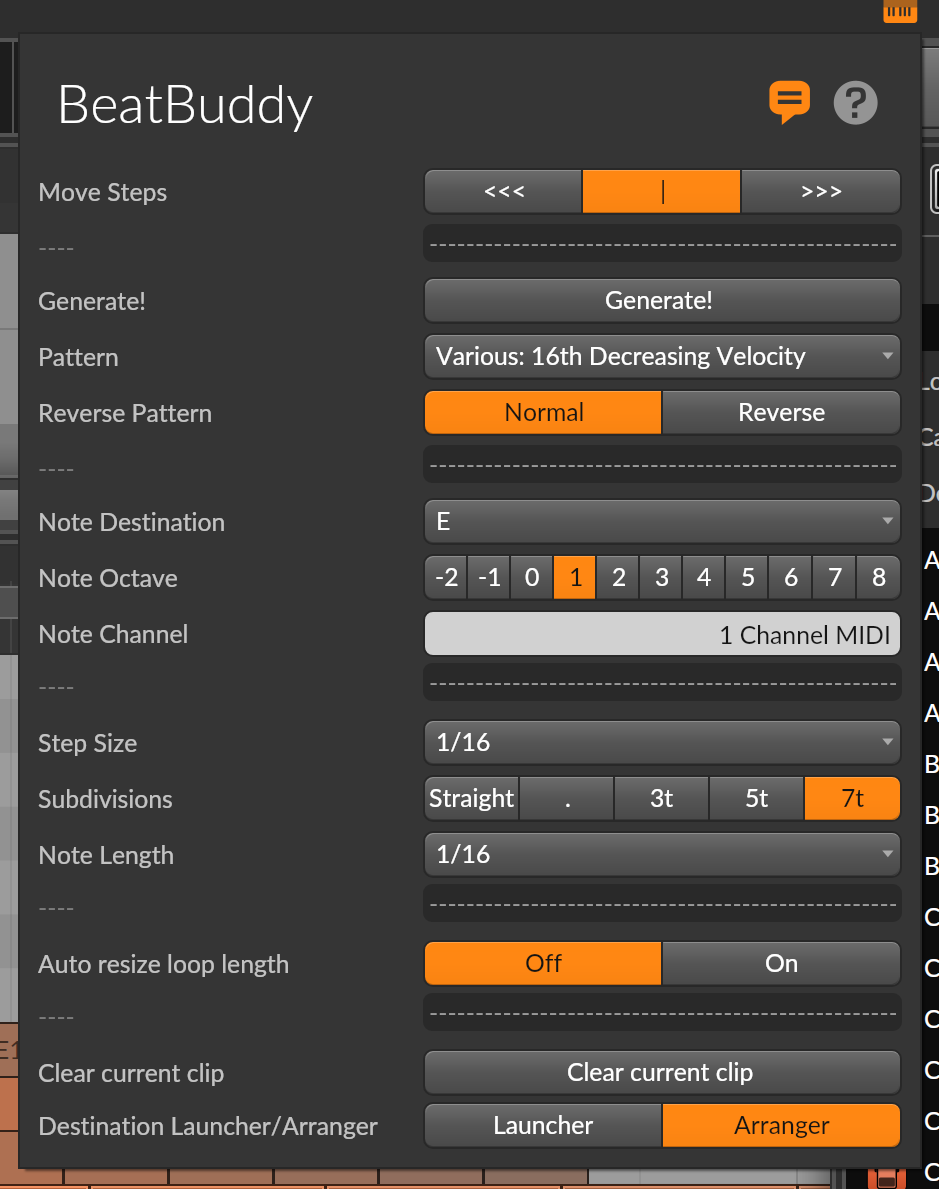
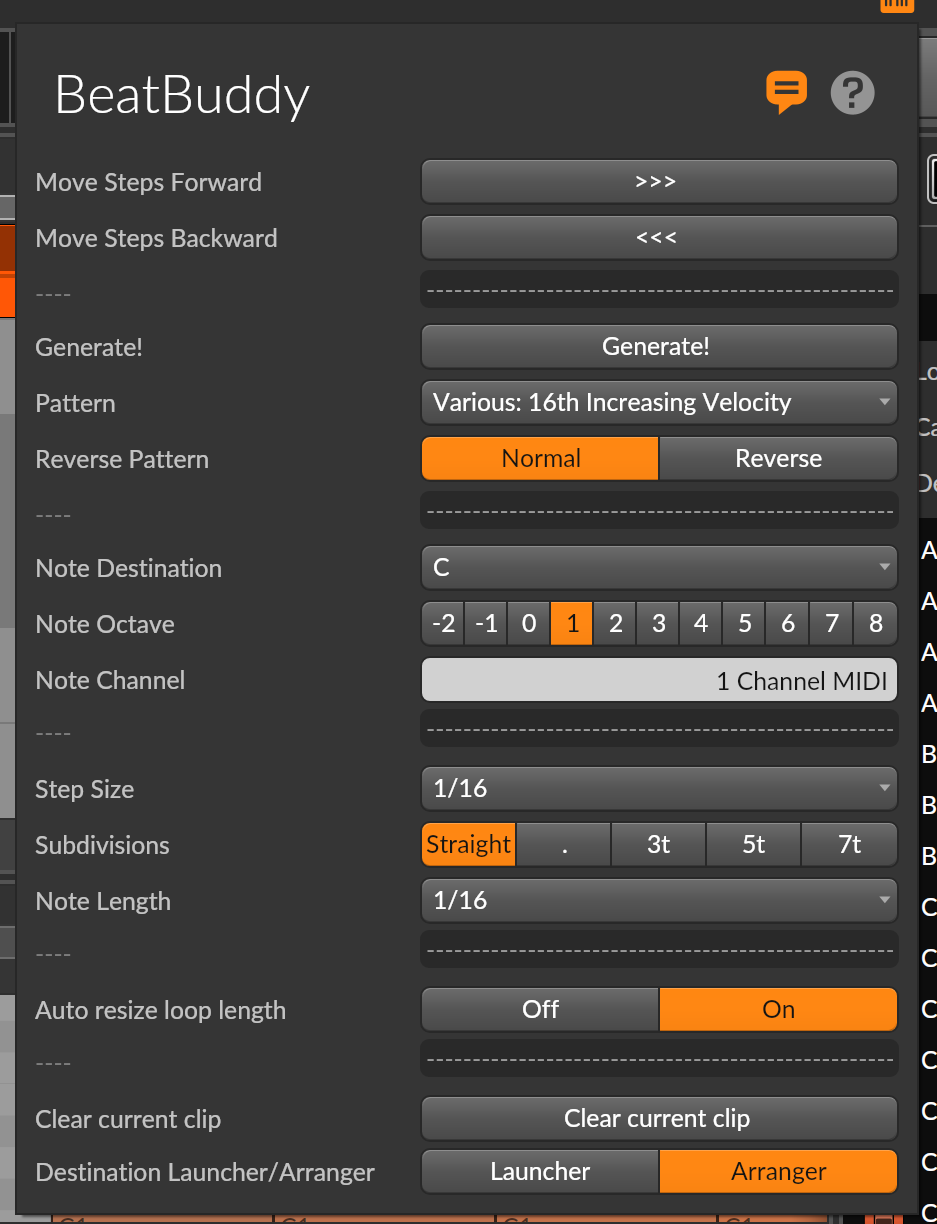
0.7.1

diff --git a/src/main/java/com/centomila/BeatBuddyExtension.java b/src/main/java/com/centomila/BeatBuddyExtension.java
@@ -1,6 +1,9 @@
 package com.centomila;
 
+import java.util.ArrayList;
 import java.util.Arrays;
+import java.util.Comparator;
+import java.util.List;
 import java.util.Random;
 
 // import com.bitwig.extension.controller.api.Action;
@@ -75,7 +78,7 @@ public class BeatBuddyExtension extends ControllerExtension {
 
       initNoteDestinationSetting();
 
-      initStepSizeSetting(); 
+      initStepSizeSetting();
 
       initPostActionSetting();
 
@@ -90,8 +93,9 @@ public class BeatBuddyExtension extends ControllerExtension {
    }
 
    /**
-    * Sets up the Step Size setting and the Note Length setting. 
-    * When the user changes the Step Size, the Note Length is automatically updated to match the selected step size.
+    * Sets up the Step Size setting and the Note Length setting.
+    * When the user changes the Step Size, the Note Length is automatically updated
+    * to match the selected step size.
     * The user can also change the Note Length independently of the Step Size.
     */
    private void initStepSizeSetting() {
@@ -117,13 +121,17 @@ public class BeatBuddyExtension extends ControllerExtension {
    }
 
    /**
-    * Initializes the note destination setting, which includes the note destination dropdown, note octave dropdown, and note channel number setting.
+    * Initializes the note destination setting, which includes the note destination
+    * dropdown, note octave dropdown, and note channel number setting.
     * 
-    * The note destination dropdown has options for all 12 notes, and the value of the dropdown is stored in the currentNoteAsString variable.
+    * The note destination dropdown has options for all 12 notes, and the value of
+    * the dropdown is stored in the currentNoteAsString variable.
     * 
-    * The note octave dropdown has options for all octaves from -2 to 8, and the value of the dropdown is stored in the currentOctaveAsInt variable.
+    * The note octave dropdown has options for all octaves from -2 to 8, and the
+    * value of the dropdown is stored in the currentOctaveAsInt variable.
     * 
-    * The note channel setting is a number setting that allows the user to select a channel from 1 to 16.
+    * The note channel setting is a number setting that allows the user to select a
+    * channel from 1 to 16.
     */
    private void initNoteDestinationSetting() {
       // Note destination dropdown
@@ -163,13 +171,17 @@ public class BeatBuddyExtension extends ControllerExtension {
    }
 
    /**
-    * Initializes the pattern setting, which includes the generate button, pattern dropdown, and reverse pattern checkbox.
+    * Initializes the pattern setting, which includes the generate button, pattern
+    * dropdown, and reverse pattern checkbox.
     * 
-    * The generate button is a signal that triggers the generateDrumPattern method when clicked.
+    * The generate button is a signal that triggers the generateDrumPattern method
+    * when clicked.
     * 
-    * The pattern dropdown has options for all patterns that are defined in the DrumPatterns class.
+    * The pattern dropdown has options for all patterns that are defined in the
+    * DrumPatterns class.
     * 
-    * The reverse pattern checkbox is a pseudo-boolean setting that is used to reverse the pattern before applying it to the clip.
+    * The reverse pattern checkbox is a pseudo-boolean setting that is used to
+    * reverse the pattern before applying it to the clip.
     * 
     * The spacer1 setting is an empty string used for spacing.
     */
@@ -212,24 +224,19 @@ public class BeatBuddyExtension extends ControllerExtension {
     * corresponding argument, and the button is reset to the "|" state.
     */
    private void initMoveStepsSetting() {
-      moveStepsSetting = (Setting) documentState.getEnumSetting("Move Steps", "Move Steps",
-            new String[] { "<<<", "|", ">>>" }, "|");
 
-      ((EnumValue) moveStepsSetting).addValueObserver(newValue -> {
-         switch (newValue) {
-            case ">>>":
-               moveSteps(1);
-               break;
+      Signal moveFwd = documentState.getSignalSetting("Move Steps Forward", "Move Steps",
+            ">>>");
+      moveFwd.addSignalObserver(() -> {
+         moveSteps(1);
 
-            case "<<<":
-               moveSteps(-1);
-               break;
+      });
 
-            default:
-               break;
-         }
-         // Reset the button position
-         ((SettableEnumValue) moveStepsSetting).set("|");
+      Signal moveBwd = documentState.getSignalSetting("Move Steps Backward", "Move Steps",
+            "<<<");
+      moveBwd.addSignalObserver(() -> {
+         moveSteps(-1);
+
       });
 
       // Empty string for spacing
@@ -258,10 +265,12 @@ public class BeatBuddyExtension extends ControllerExtension {
    }
 
    /**
-    * Initializes the clear clip setting, which includes an empty string spacer and the clear
+    * Initializes the clear clip setting, which includes an empty string spacer and
+    * the clear
     * current clip setting.
     * 
-    * The clear current clip setting is a button that, when clicked, will clear the current
+    * The clear current clip setting is a button that, when clicked, will clear the
+    * current
     * clip of all notes.
     * 
     * The spacer is an empty string setting that is used for spacing.
@@ -279,7 +288,8 @@ public class BeatBuddyExtension extends ControllerExtension {
    }
 
    /**
-    * Initializes the Launcher/Arranger toggle setting, which determines whether the
+    * Initializes the Launcher/Arranger toggle setting, which determines whether
+    * the
     * drum pattern is generated in the Launcher or Arranger clip.
     * 
     * The setting is an EnumValue that can be set to either "Launcher" or
@@ -314,7 +324,8 @@ public class BeatBuddyExtension extends ControllerExtension {
 
    /**
     * Notifies the user with a popup notification of the currently selected note
-    * destination. The notification is in the format "Note Destination: <note name><octave>".
+    * destination. The notification is in the format "Note Destination: <note
+    * name><octave>".
     */
    private void notifyNoteDestination() {
       getHost().showPopupNotification("Note Destination: " + currentNoteAsString + currentOctaveAsInt);
@@ -330,7 +341,6 @@ public class BeatBuddyExtension extends ControllerExtension {
       return channel - 1;
    }
 
-
    /**
     * Generates a drum pattern in the currently selected clip.
     * 
@@ -341,7 +351,8 @@ public class BeatBuddyExtension extends ControllerExtension {
     * 
     * If the auto reverse pattern setting is "On", the pattern is reversed.
     * 
-    * If the auto resize loop length setting is "On", the loop length is resized to fit
+    * If the auto resize loop length setting is "On", the loop length is resized to
+    * fit
     * the generated pattern.
     */
    private void generateDrumPattern() {
@@ -423,35 +434,42 @@ public class BeatBuddyExtension extends ControllerExtension {
    }
 
    /**
-    * Move all steps in the current clip by a specified number of steps in the
-    * x-direction.
-    *
-    * @param stepOffset the number of steps to move in the x-direction
+    * Moves all the notes in the clip by the given number of steps. Negative
+    * values move the notes backwards, positive values move them forwards.
+    * 
+    * The notes are moved in the order they appear in the clip, so moving a note
+    * that is earlier in the clip will move all the notes after it.
+    * 
+    * If the user tries to move a note before the start of the clip, a popup
+    * notification is shown, and no notes are moved.
+    * 
+    * @param stepOffset the number of steps to move the notes
     */
-   private void moveSteps(int stepOffset) {
+   public void moveSteps(int stepOffset) {
       Clip clip = getLauncherOrArrangerAsClip();
       int channel = getCurrentChannelAsInt();
       int noteDestination = getCurrentNoteDestinationAsInt();
 
-      // Create an array with a copy of all the current note steps
-      NoteStep[] steps = new NoteStep[128];
-      for (int i = 0; i < steps.length; i++) {
-         steps[i] = clip.getStep(channel, i, noteDestination);
+      List<NoteStep> steps = new ArrayList<>();
+      for (int i = 0; i < 128; i++) {
+         NoteStep step = clip.getStep(channel, i, noteDestination);
+         if (step != null && step.duration() > 0.0) {
+            steps.add(step);
+         }
       }
 
-      // Clear the current clip
-      clip.clearStepsAtY(channel, noteDestination);
+      if (stepOffset > 0) {
+         steps.sort(Comparator.comparingInt(NoteStep::x).reversed());
+      } else {
+         steps.sort(Comparator.comparingInt(NoteStep::x));
+      }
 
-      for (int i = 0; i < steps.length; i++) {
-         if (steps[i] != null && steps[i].duration() > 0.0) {
-            int velocity = (int) (steps[i].velocity() * 127);
-
-            if (steps[i].x() == 0 && stepOffset < 0) {
-               stepOffset = 0;
-               getHost().showPopupNotification("Cannot move steps before the start of the clip");
-            }
-
-            clip.setStep(channel, steps[i].x() + stepOffset, steps[i].y(), velocity, steps[i].duration());
+      for (NoteStep step : steps) {
+         if (step.x() == 0 && stepOffset < 0) {
+            stepOffset = 0;
+            getHost().showPopupNotification("Cannot move steps before the start of the clip");
+         } else {
+            clip.moveStep(channel, step.x(), step.y(), stepOffset, 0);
          }
       }
    }

diff --git a/src/main/java/com/centomila/BeatBuddyExtensionDefinition.java b/src/main/java/com/centomila/BeatBuddyExtensionDefinition.java
@@ -29,7 +29,7 @@ public class BeatBuddyExtensionDefinition extends ControllerExtensionDefinition
    @Override
    public String getVersion()
    {
-      return "0.7.0";
+      return "0.7.1";
    }
 
    @Override

diff --git a/readme.md b/readme.md
@@ -2,7 +2,7 @@
 
 # BeatBuddy - Bitwig Studio Extension for Generating Drum Patterns (v0.7.0)
 
-![Screenshot v0.7.0](image.png)
+![Screenshot v0.7.1](image.png)
 
 ## ⚙ Installation:
 
@@ -20,7 +20,6 @@ BeatBuddy is a Bitwig extension for creating and manipulating single lane MIDI p
 
 #### Move Steps
 - **<<<**: Move steps to the left.
-- **|**: Center steps (reset position).
 - **>>>**: Move steps to the right.
 
 ⚠ Note: This creates a lot of actions! Once done, you will not be able to undo any action prior to the "Move Steps" action.

diff --git a/CHANGELOG.md b/CHANGELOG.md
@@ -1,5 +1,11 @@
 # 📋 Changelog:
 
+**0.7.1**  
+- [X] The single line buttons for moving the pattern by one step were causing problems. Now, there are two separate buttons: <<< and >>>.  
+  - This fixes the problem of the broken undo action.
+- [X] Fixed a bug that caused unpredictable step movement if the length of the individual steps was different.  
+
+
 **0.7.0**
 - [X] Fixed Quintuplets (5t) and Septuplets (7t).
 - [X] Added 1/1 step size/note length.
